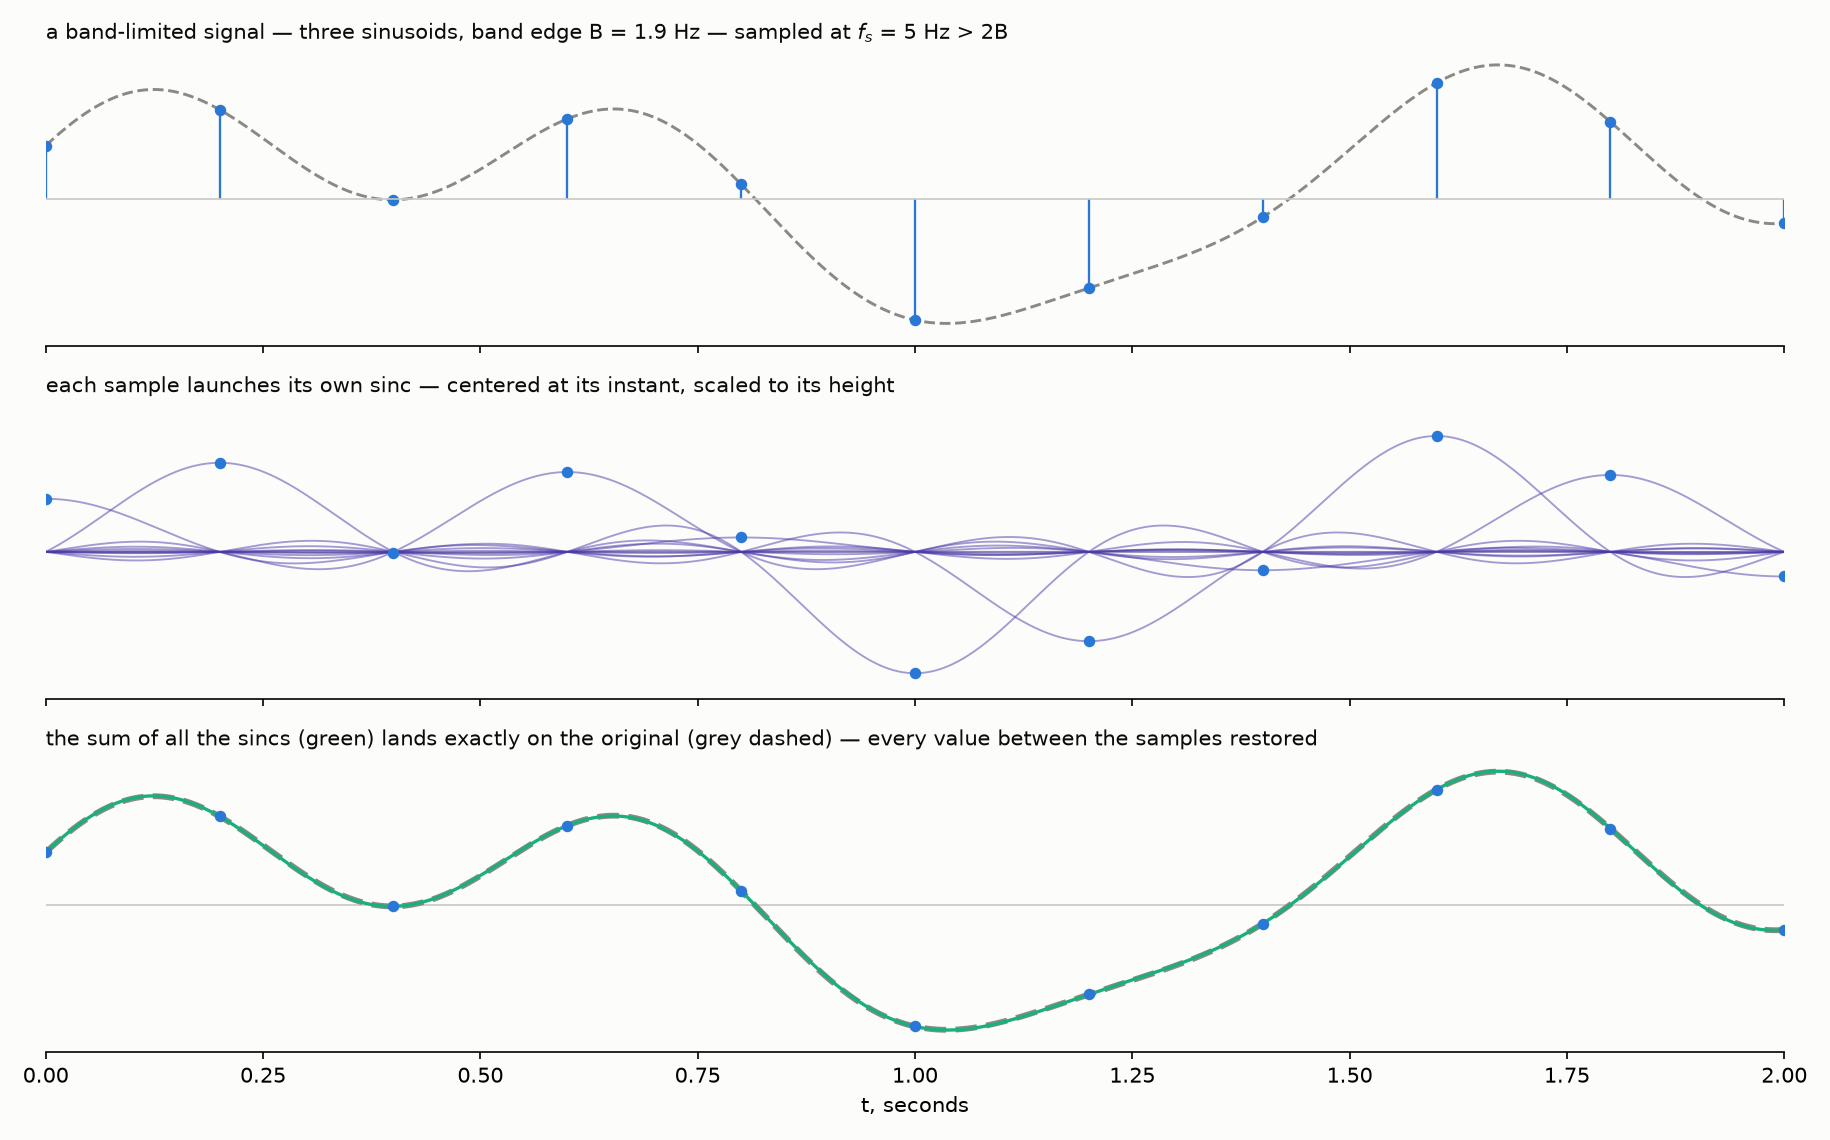
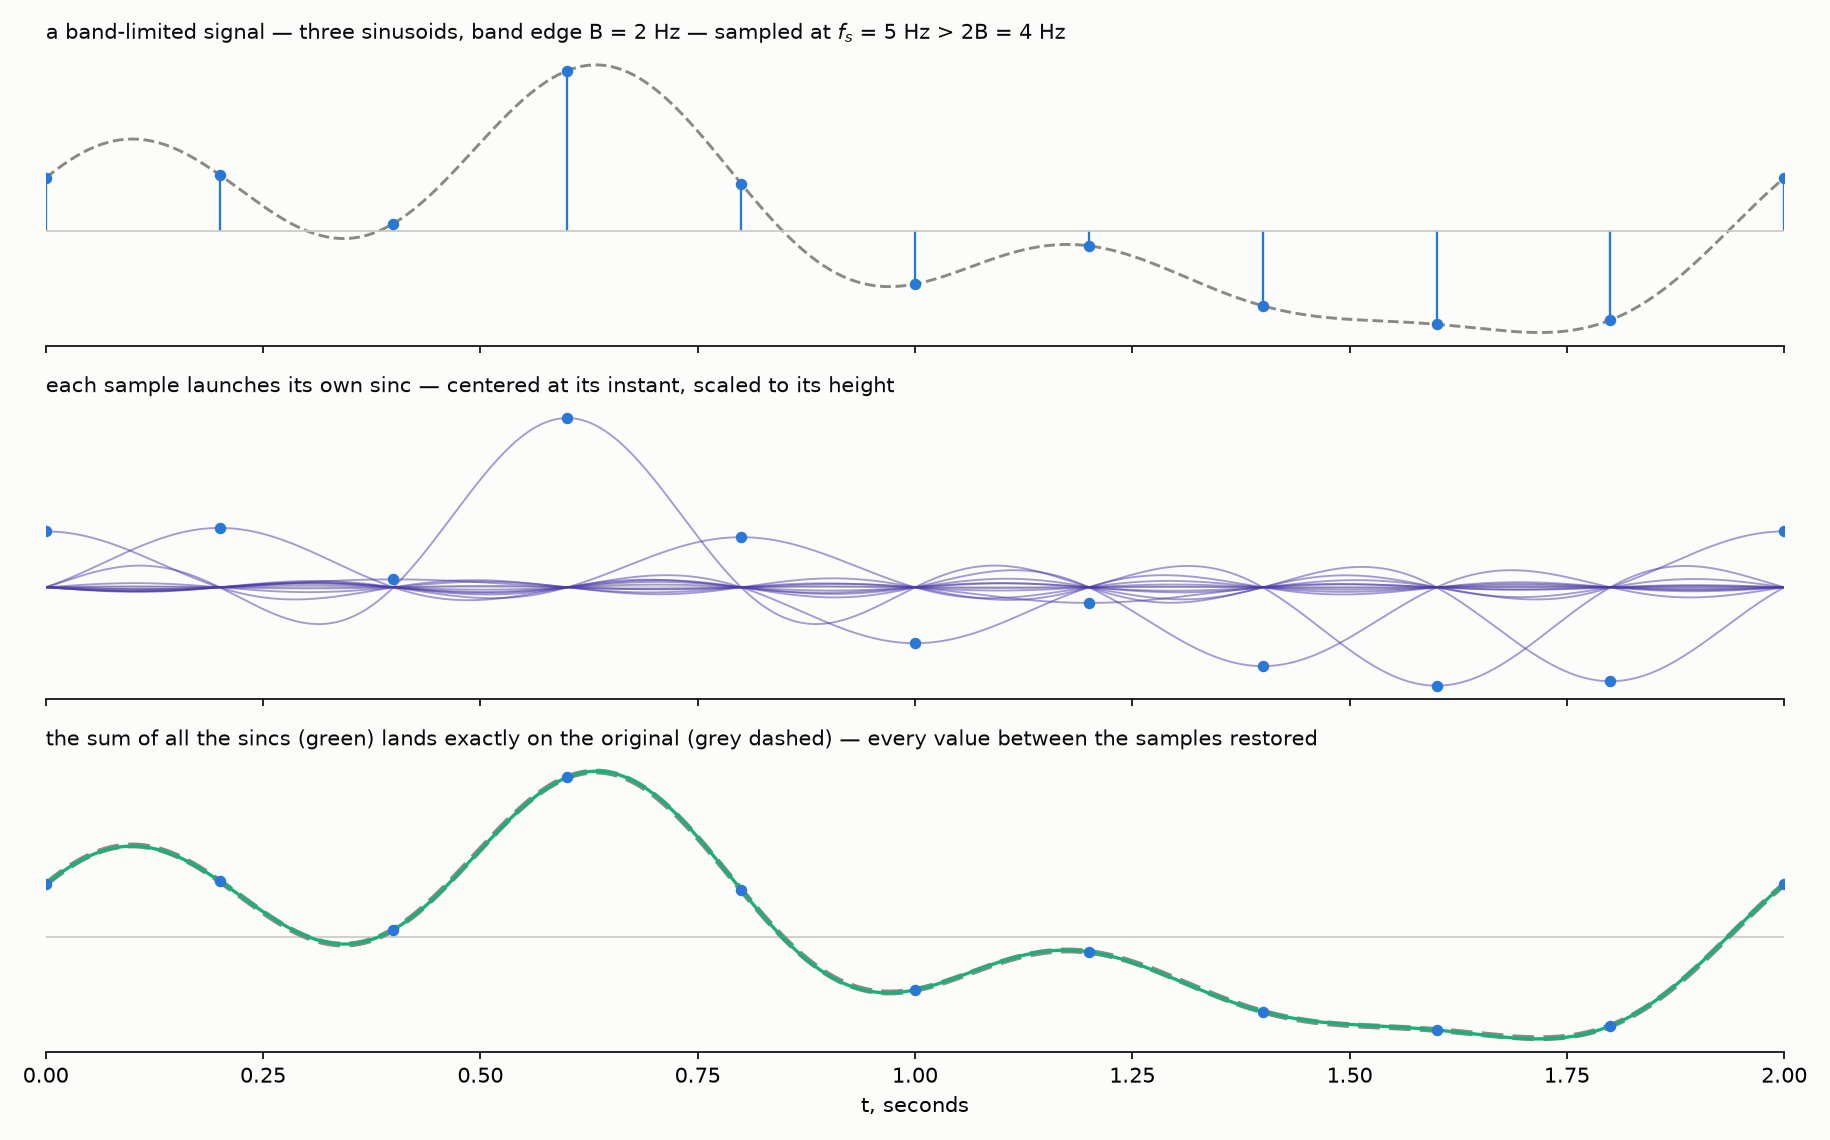
Three Names: three-sinc intermediate figure; round frequencies, B = 2 Hz
- three_sincs.png sits between the sinc portrait and the full train:
  three expressive sincs (one negative), zeros shared at sample instants
- the demo signal is now 0.5/1.5/2 Hz so B = 2 and the Nyquist rate is
  a round 4 Hz; sinc_train regenerated to match

diff --git a/content/posts/the-theorem-with-three-names/index.md b/content/posts/the-theorem-with-three-names/index.md
@@ -188,7 +188,10 @@ equals $1$ at its center (at that one point its formula reads
 $\frac{0}{0}$, and the value $1$ is the classic limit
 $\frac{\sin u}{u} \to 1$ — the black dot in the picture above) while
 every other sinc is passing through one of its zeros, so no neighbor
-interferes. *Between* the instants, all the
+interferes:
+
+![Three of the sincs: each peaks at its own sample and vanishes at every other sample instant](three_sincs.png)
+ *Between* the instants, all the
 sincs speak at once, and their sum fills in the continuous curve — the
 values the recording never measured, restored by the theorem. This is
 the third interpolation of our series, kin to two we have already met —
@@ -201,8 +204,8 @@ period; the sinc train is their full-line sibling — infinitely many
 samples, no period, the entire time axis rebuilt.
 
 And here is the formula at work on a concrete signal — three sinusoids
-with band edge $B = 1.9$ Hz, sampled at $f_s = 5$ Hz, comfortably above
-the Nyquist rate $2B = 3.8$ Hz:
+with band edge $B = 2$ Hz, sampled at $f_s = 5$ Hz, comfortably above
+the Nyquist rate $2B = 4$ Hz:
 
 ![Three sinusoids sampled above the Nyquist rate; each sample launches a sinc; the sum reproduces the signal](sinc_train.png)
 
